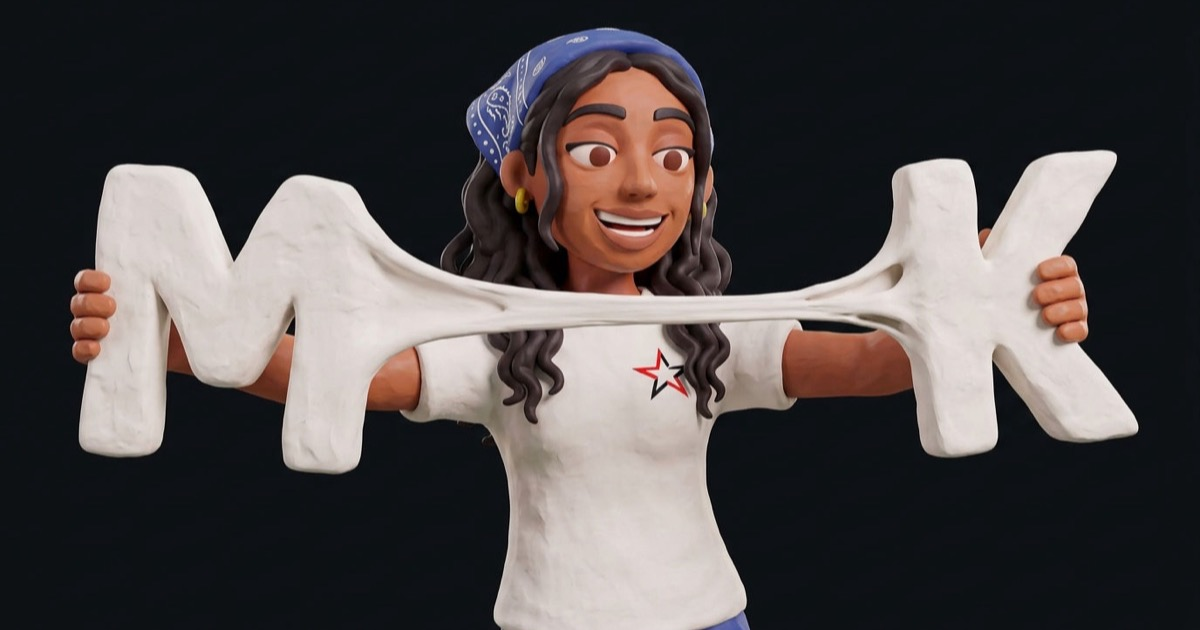
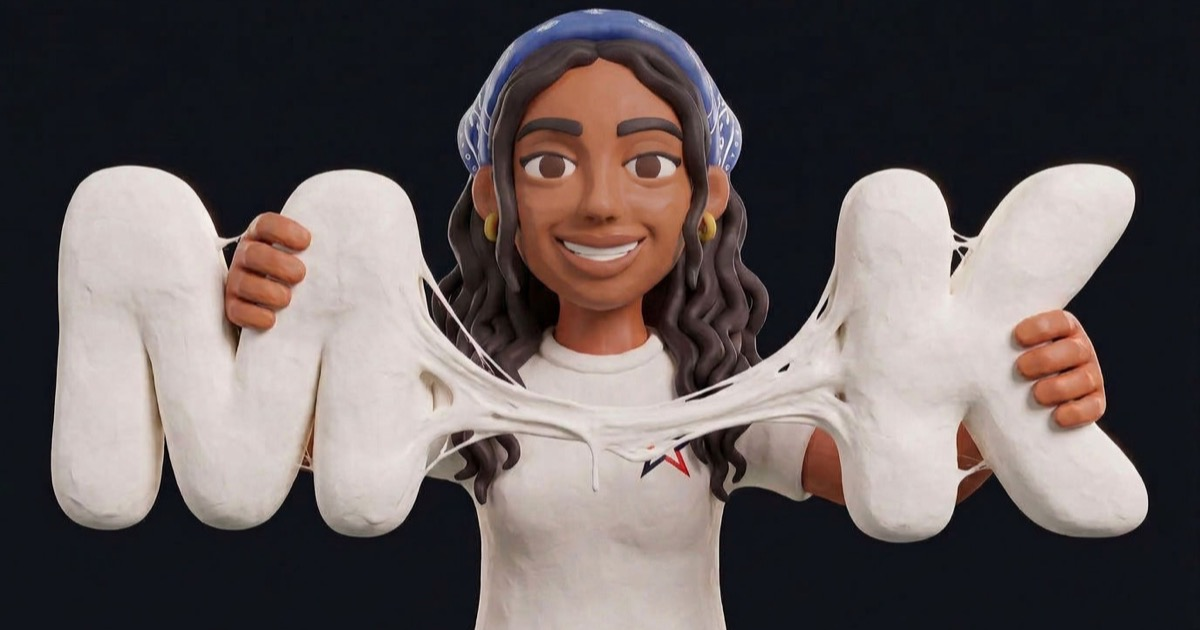
Link preview picture: her pick H2 (dead-on, her approved smile, soft M and K)

diff --git a/build.js b/build.js
@@ -3106,8 +3106,8 @@ function bootJS() {
 }
 
 /* the link preview (her 2026-10-27: "the text and the image are wrong for the link to my portfolio"): clay her pulling
-   the M and K apart: after seeing both styles side by side she chose her grinning, waist-up take ("the first image is the
-   best", Flora take 2) over the hands-only ones, at 1200x630. Absolute URL: preview crawlers don't resolve relative ones */
+   the M and K apart: after seeing both styles side by side after many rounds she chose H2 ("the bottom row ones look the
+   best" → H2): dead-on, chest-up, her approved closed-teeth smile, soft M and K, at 1200x630. Absolute URL: preview crawlers don't resolve relative ones */
 const OG = { f: 'assets/og/preview.jpg', w: 1200, h: 630, type: 'image/jpeg' };
 function head(title, desc, boot, card) {   // card: {title, line} for the link preview, else the page's own title/description
   const og = 'https://www.m--k.me/' + OG.f;   // DOMAIN is declared further down (used here before it exists)
